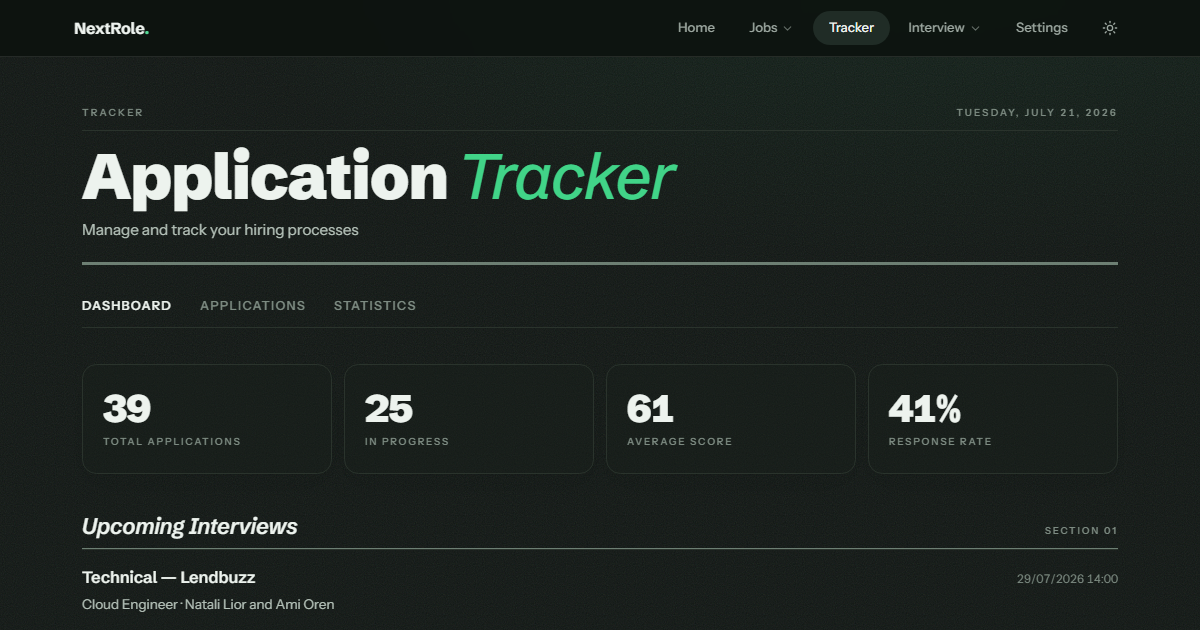
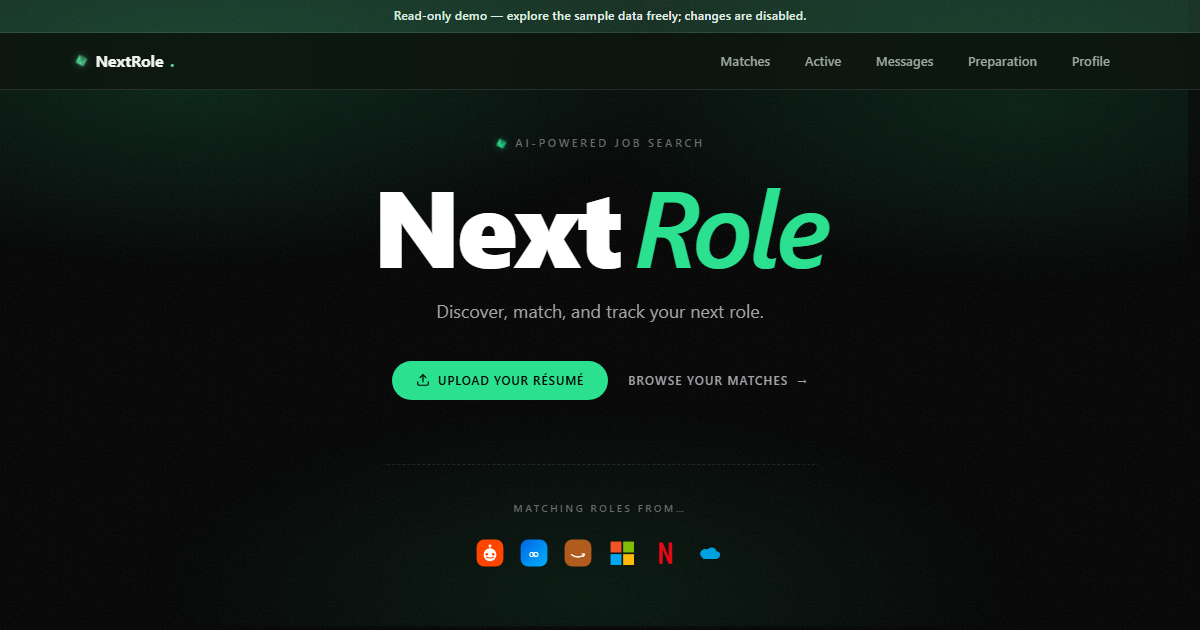
Replace social-preview image with the landing page, not the tracker dashboard
The previous og.png was a Tracker screenshot with real applicant data
(names, company, interview details). Swap it for a screenshot of the
static landing page, which has no data fetching at all, and bump the
og:image cache-buster so LinkedIn/Slack refetch instead of serving their
cached copy of the old one.

diff --git a/client/index.html b/client/index.html
@@ -13,7 +13,7 @@
     <meta property="og:title" content="NextRole — AI-powered job-search platform" />
     <meta property="og:description" content="Discover jobs, score fit against your profile with Claude, and track every application from discovery to offer." />
     <meta property="og:url" content="https://nextrole-io.onrender.com" />
-    <meta property="og:image" content="https://nextrole-io.onrender.com/og.png?v=3" />
+    <meta property="og:image" content="https://nextrole-io.onrender.com/og.png?v=4" />
     <meta property="og:image:width" content="1200" />
     <meta property="og:image:height" content="630" />
 
@@ -21,7 +21,7 @@
     <meta name="twitter:card" content="summary_large_image" />
     <meta name="twitter:title" content="NextRole — AI-powered job-search platform" />
     <meta name="twitter:description" content="Discover jobs, score fit against your profile with Claude, and track every application from discovery to offer." />
-    <meta name="twitter:image" content="https://nextrole-io.onrender.com/og.png?v=3" />
+    <meta name="twitter:image" content="https://nextrole-io.onrender.com/og.png?v=4" />
 
     <link rel="preconnect" href="https://fonts.googleapis.com" />
     <link rel="preconnect" href="https://fonts.gstatic.com" crossorigin />
